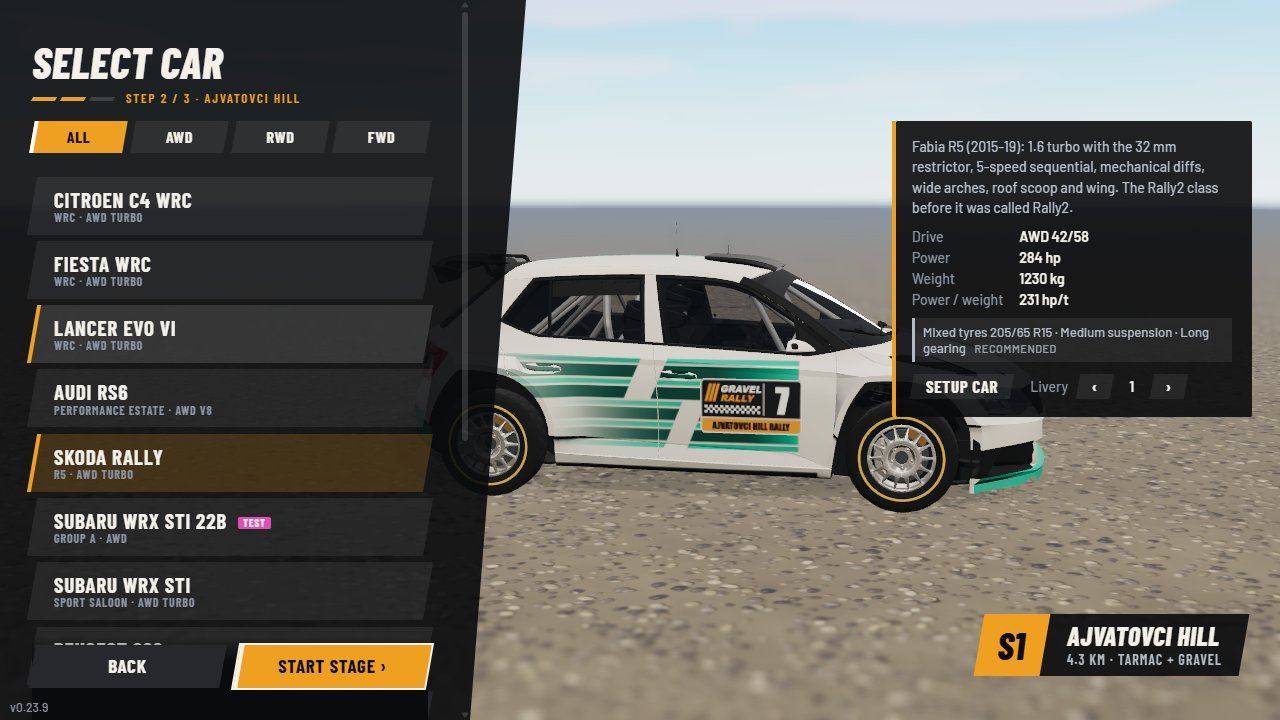
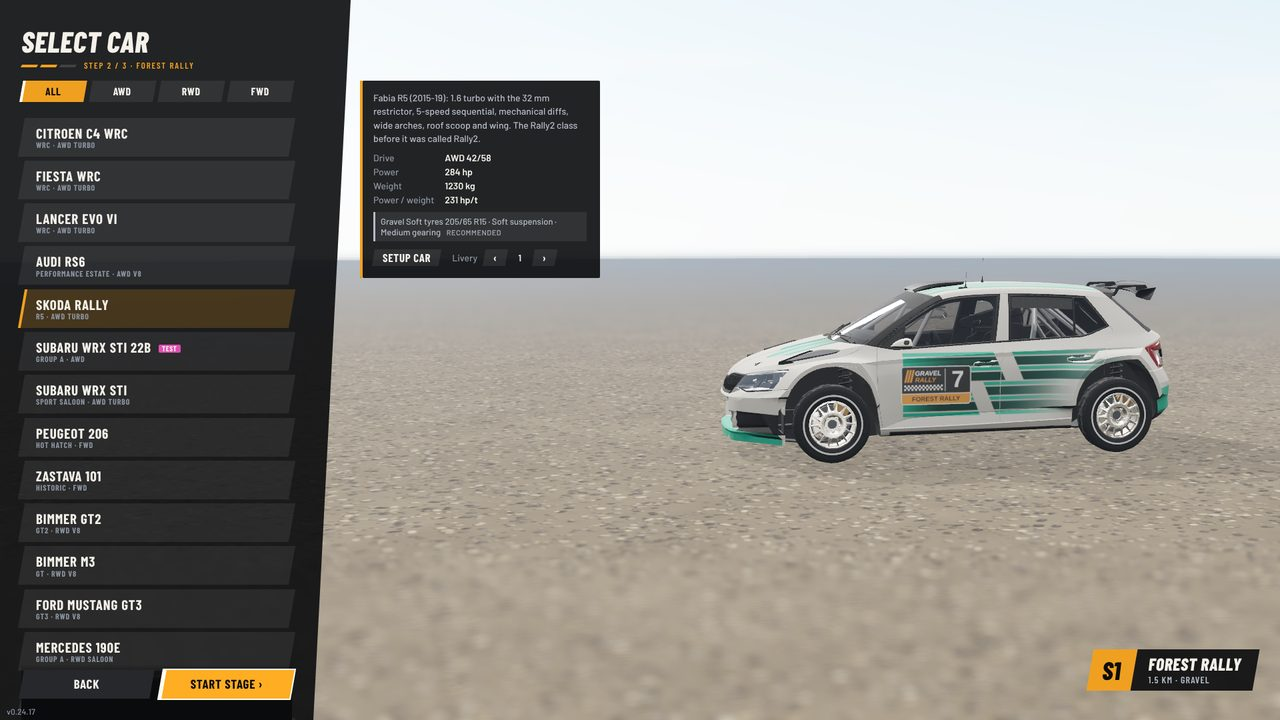
Rally menu: detail card docked beside the list
- Select stage, Select car and Stage times share the placement
- map / car moves into the room right of the card
- style guide, details and guide pictures updated

diff --git a/src/games/rally/game/showroom.ts b/src/games/rally/game/showroom.ts
@@ -59,6 +59,14 @@ import {
 const CAR_SHIFT = 0.07;
 /** Orbit distance of the turntable car on every car screen: leaves room for the spec card docked on the right. */
 const CAR_DIST_SCALE = 1.05;
+/** Detail card docked beside the list: the subject moves into the room right of it, if that is at least this share of the width. */
+const DOCK_MIN_FREE = 0.25;
+/** Same for the stage view: the whole route has to fit there, so it needs more room before it leaves the middle. */
+const DOCK_MIN_FREE_MAP = 0.4;
+/** Gap between the docked card and the subject's room (px). */
+const DOCK_GAP = 16;
+/** Largest extra back-off of the turntable car so it fits in the room right of the docked card. */
+const DOCK_MAX_BACKOFF = 2.2;
 const CAR_ENV = { ...testMap.environment, fogDensity: 0.02, sunElevation: 24 };
 /** Map view: camera height angle over the stage (rad), ~36 deg. */
 const ORBIT_ELEVATION = Math.atan2(0.7, 0.95);
@@ -162,6 +170,8 @@ export class Showroom {
    * centred in the screen area right of the menu panel (`panelRight`, the stage view).
    */
   private fixedShift: number | null = CAR_SHIFT;
+  /** Eased screen shift of the car screens (`CAR_SHIFT`, or the room beside the docked card). */
+  private carShift = CAR_SHIFT;
   private env: Environment;
   /** Car screens: shallow depth of field on the turntable car (off on low quality). */
   private dof?: DepthOfField;
@@ -201,6 +211,8 @@ export class Showroom {
     private quality: QualitySettings,
     /** Right edge of the menu panel (CSS px from the canvas' left edge); 0 = no panel. */
     private panelRight: () => number = () => 0,
+    /** Right edge of the detail card docked beside the list (CSS px from the canvas' left edge); 0 = none. */
+    private cardRight: () => number = () => 0,
   ) {
     this.renderer = createRenderer(container, quality);
     this.loadCue = document.createElement('div');
@@ -501,9 +513,17 @@ export class Showroom {
     }
     const cw = this.renderer.domElement.clientWidth;
     this.loadCue.style.left = `${(0.5 + (w > h ? this.shift() : 0)) * cw}px`;
+    // Ease the car beside the docked detail card (and back), backing off so it still fits there.
+    const dock = this.dockEdge();
+    const want = dock ? dock / (2 * (cw || 1)) : CAR_SHIFT;
+    this.carShift += (want - this.carShift) * Math.min(1, dt * 8);
+    const back = Math.min(
+      DOCK_MAX_BACKOFF,
+      Math.max(1, (0.85 * (1 - 2 * CAR_SHIFT)) / (1 - 2 * this.carShift)),
+    );
     this.angle += dt * 0.18;
     // Back off on narrow windows so the car still fits beside the panel.
-    const dist = 8.2 * Math.max(1, 1.7 / (w / h)) * CAR_DIST_SCALE;
+    const dist = 8.2 * Math.max(1, 1.7 / (w / h)) * CAR_DIST_SCALE * back;
     const cam = this.camera;
     cam.position.set(
       Math.sin(this.angle) * dist,
@@ -528,10 +548,25 @@ export class Showroom {
    * the screen): none.
    */
   private shift(): number {
-    if (this.fixedShift !== null) return this.fixedShift;
+    if (this.fixedShift !== null) return this.carShift;
     const width = this.renderer.domElement.clientWidth || 1;
+    const dock = this.dockEdge();
+    if (dock) return dock / (2 * width);
     const panel = this.panelRight();
     return panel > width * 0.6 ? 0 : panel / (2 * width);
+  }
+
+  /**
+   * Right edge (plus a small gap) of the detail card docked beside the list, or 0 when there is none or too little room
+   * right of it: the subject then stays where it is and the card floats over it.
+   */
+  private dockEdge(): number {
+    const width = this.renderer.domElement.clientWidth || 1;
+    const card = this.cardRight();
+    const min = this.mapView ? DOCK_MIN_FREE_MAP : DOCK_MIN_FREE;
+    return card > 0 && width - card - DOCK_GAP >= width * min
+      ? card + DOCK_GAP
+      : 0;
   }
 
   private aim(cam: PerspectiveCamera, v: MapView, aspect: number): void {

diff --git a/src/games/rally/game/menu.css b/src/games/rally/game/menu.css
@@ -930,12 +930,13 @@ html.touch .menu-btn.big kbd {
   }
 }
 
-/* Select stage / Select car: the description card sits right of the list (wide screens). */
+/* Select stage / Select car / Stage times: the detail card docks beside the list, left aligned to the slab (wide
+   screens); the map / car is the background to its right. */
 .menu-side-card {
   position: absolute;
   z-index: 41;
   top: 40px;
-  right: 28px;
+  left: 540px;
   width: min(360px, calc(100% - 540px));
   max-height: calc(100% - 64px);
   box-sizing: border-box;
@@ -1049,11 +1050,12 @@ html.touch .menu-btn.big kbd {
   outline-offset: 1px;
 }
 
-/* Stage times: the saved runs float over the map view, right of the stage list. */
+/* Stage times: the saved runs dock beside the stage list, over the map view (same place as the description card). */
 .menu-times-card {
   position: absolute;
+  z-index: 41;
   top: 40px;
-  right: 28px;
+  left: 540px;
   max-height: calc(100% - 64px);
   width: min(560px, calc(100% - 540px));
   box-sizing: border-box;
@@ -1071,7 +1073,7 @@ html.touch .menu-btn.big kbd {
   letter-spacing: 0.01em;
   text-transform: uppercase;
 }
-@media (max-width: 760px) {
+@media (max-width: 799px) {
   .menu-times-card {
     top: auto !important;
     left: 16px;

diff --git a/src/games/rally/game/menu.ts b/src/games/rally/game/menu.ts
@@ -371,6 +371,15 @@ class MainMenu {
       () =>
         this.panel.getBoundingClientRect().right -
         bg.getBoundingClientRect().left,
+      // The detail card docked beside the list (not the phone layout, where it covers the subject above the buttons).
+      () => {
+        const card = this.root.querySelector<HTMLElement>(
+          '.menu-side-card, .menu-times-card',
+        );
+        return card && window.innerWidth >= SIDE_CARD_MIN_WIDTH
+          ? card.getBoundingClientRect().right - bg.getBoundingClientRect().left
+          : 0;
+      },
     );
     this.showroom.setCar(this.car.id, this.livery, this.badge);
     window.addEventListener('keydown', this.onKey);
@@ -871,7 +880,7 @@ class MainMenu {
   }
 
   /**
-   * Description card of Select stage / Select car (`.menu-side-card`): it floats over the map: right of the list with its top
+   * Description card of Select stage / Select car (`.menu-side-card`): it docks beside the list (left aligned, the map / car is the background to its right) with its top
    * level with `align` (the header height depends on the font) on screens >= `SIDE_CARD_MIN_WIDTH` px wide, above the
    * buttons on phones. Always returns true.
    */

diff --git a/src/games/rally/DETAILS.md b/src/games/rally/DETAILS.md
@@ -67,7 +67,7 @@ Console: `__rally.benchmark(240)` (avg / worst ms per frame, works with the tab 
   there), starts on the first click / key (autoplay rule), shows "now playing" bottom right, pauses with the tab. Main-menu
   Options slider `musicVolume` (0 = off, 100% plays at half of full volume); `?mute=1` silences it. Add a track = file + `MENU_TRACKS` row (+ `THIRD-PARTY.md`).
 - **Pause** (`Esc`): resume, restart, free-drive pad <-> stage, options, main menu.
-- **Stage times** (welcome menu): stage list on the left (↑↓), the selected stage's saved runs over its map view on the right; current versions first, older ones dimmed below.
+- **Stage times** (welcome menu): stage list on the left (↑↓), the selected stage's saved runs over its map view in a card docked beside the list (`.menu-times-card`); current versions first, older ones dimmed below.
 - **About:** every external source per map (`MapDef.sources` + its stages' `StageDef.sources`) and car (`CarDef.sources`), menu music credits, plus `version` from `game.json`.
 
 **On a stage** (`game/stage.ts`):
@@ -560,7 +560,7 @@ run 2-3x, so compare old / new **in the same page, interleaved** over several ro
   sits unlabelled at 0%. The car's GLB starts downloading before the map data (`preloadCarModel`).
 - Car select: a "Loading model" spinner (`Showroom.loadCue`) shows while a car's GLB downloads (the car stays hidden until then).
 - Car select: All / AWD / RWD / FWD filter row on top (`driveGroup` from the car's `drivetrain.frontSplit`, not remembered); up from the first car or the pad focuses it, left / right switch.
-- Car select (screens >= 800 px wide): the description / stats / livery sit in a wide card right of the list (`.menu-side-card`, `MainMenu.sideCard`, shared with Select stage); the showroom car keeps its shared place and size (`CAR_SHIFT`, `CAR_DIST_SCALE`) and may run behind the card. Narrower screens (< 800 px) lay the same card over the map above the buttons.
+- Car select (screens >= 800 px wide): the description / stats / livery sit in a card docked beside the list (`.menu-side-card`, `MainMenu.sideCard`, shared with Select stage; Stage times uses the same placement). The showroom car (`CAR_SHIFT`, `CAR_DIST_SCALE`) eases into the room right of the card and backs off to fit (`Showroom.dockEdge`, `DOCK_MIN_FREE`, `DOCK_MAX_BACKOFF`); with too little room (windows under about 1100 px wide) it keeps its shared place and runs behind the card. The stage view does the same with `DOCK_MIN_FREE_MAP`. Narrower screens (< 800 px) lay the same card over the map above the buttons.
 - Select stage: the stage's description (`StageDef.description`: what the drive is like for the player, no data sources or build details), recommended set-up and a **Time of day** dropdown sit in the same card (phones: under the selected stage), with a **Season** dropdown (spring / summer / autumn, above the time) and the **Month** it is driven in in front. Left / right (or the pad) step the time; the list cards keep the route, tags and best time.
 - Time of day (`game/time-of-day.ts`, the one config): early morning 07:00, mid day 12:00, afternoon 15:30, evening 17:30, night 01:00 (dropdown order) - each is a `?tod=<hours>` hour, so any stage of a map with `environment.timeOfDay` takes any of them. A stage's own default hour stays exact on its nearest slot (Jackie opens on "Early morning · 08:00") and a stage can move a slot (`StageDef.slotHours`: Vodno's early morning is 08:00); a pick applies to every stage until changed and is not remembered; the menu mirrors it into the URL (`tod=`), a stage without `timeOfDay` shows no dropdown. Under it the card shows the clock time and the air / road temperature at that hour (`StageDef.temps`, the numbers the tyres run with, see PHYSICS.md). Times are saved per stage, not per time of day.
 - Season (`season.ts`): spring / summer / autumn, the one the stage opens in (`StageDef.season`, else the map's `environment.season`, default summer; `stageSeason`) or `?season=`; the stage screen's pick is mirrored into the URL (`season=`, none = the stage's own) and shown on every stage including the test map. It sets the tree leaf colours (`trees/seasons.ts`), the ground (`environment.groundTints`, below) and the stage's air / road temperatures (`StageDef.temps`, "Temperatures" below). The stage card lists the **Month** the stage is driven in that season (`environment.months`, default April / July / October: e.g. Ajvatovci spring April, Jackie spring May).

diff --git a/src/games/rally/STYLEGUIDE.md b/src/games/rally/STYLEGUIDE.md
@@ -12,8 +12,9 @@ and `hud.css` use `var(--ui-*)` only, so a change of look starts there.
 
 ## Principles
 
-- **The 3D view is the hero.** No card over the middle of the screen on the stage, car and setup screens: the spec card and
-  the setup part window dock to the right edge and are narrow, the menu slab stays on the left.
+- **The 3D view is the hero.** No card over the middle of the screen on the stage, car and setup screens: the spec card sits
+  right beside the menu list (left aligned, never far across the screen) and is narrow, the setup part window docks to the
+  right edge, the menu slab stays on the left. The map or car is the background and moves into the room right of the card.
 - **One primary action per screen**, a solid amber button. Everything else is a raised glass row.
 - **Calm menus, loud moments.** Menus stay flat and dark; the energy goes into the start, the splits and the results.
 - **Text sits on a plate.** Every HUD text group has a dark glass plate, never bare text over the sky.
@@ -64,6 +65,11 @@ ratings from the `--ui-rate-*` set (its orange is not the accent). "Recommended"
   primary buttons only, so the second text line stays readable). All cards in a list have one height: tags stay on one row, long text truncates.
 - **Segmented control** (`.menu-seg`): slanted chips, the active one amber.
 - **Step pips**: three slanted bars (Stage, Car, Go) under the screen title.
+- **Spec card** (`.menu-side-card`, `.menu-times-card`): the glass detail card of Select stage, Select car and Stage times,
+  docked at the slab's edge with the amber left bar. Select car, Select stage and Stage times share one placement, so a new
+  menu screen with a detail card reuses the class. On screens at least 800 px wide the map or car is centred in the room
+  right of the card when that room is wide enough (about 25% of the width for the car, 40% for a map); on narrower
+  windows it stays behind the card. Phones lay the card over the view above the buttons.
 - **Stage plate** (`.menu-plate`): bottom right on the stage, car and setup screens and while loading: `S<n>` on amber (the
   stage's place on its map, so only a map with several stages goes past S1), then name, length and surface on glass.
 - **Dropdown** (`.menu-select`): native `<select>` (keyboard and phone friendly) with the picked option's amber line icon in
